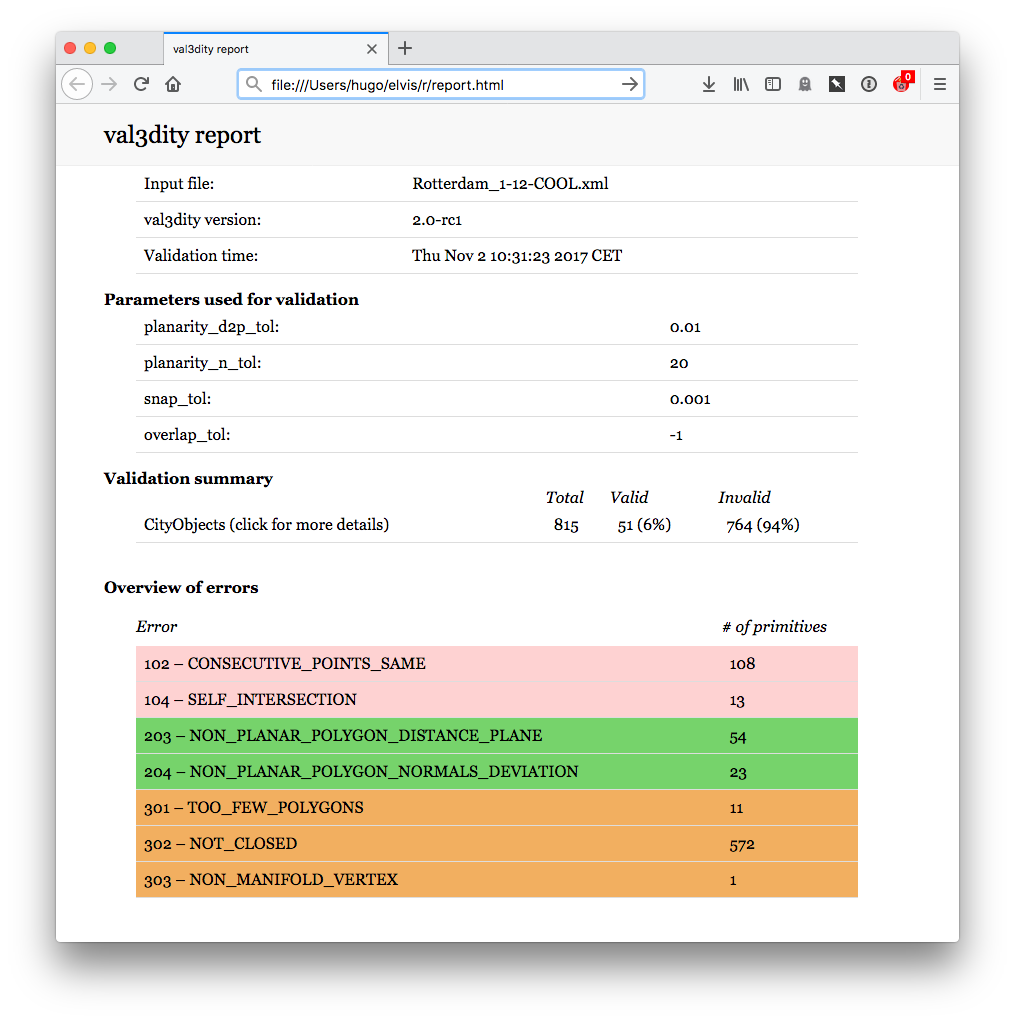
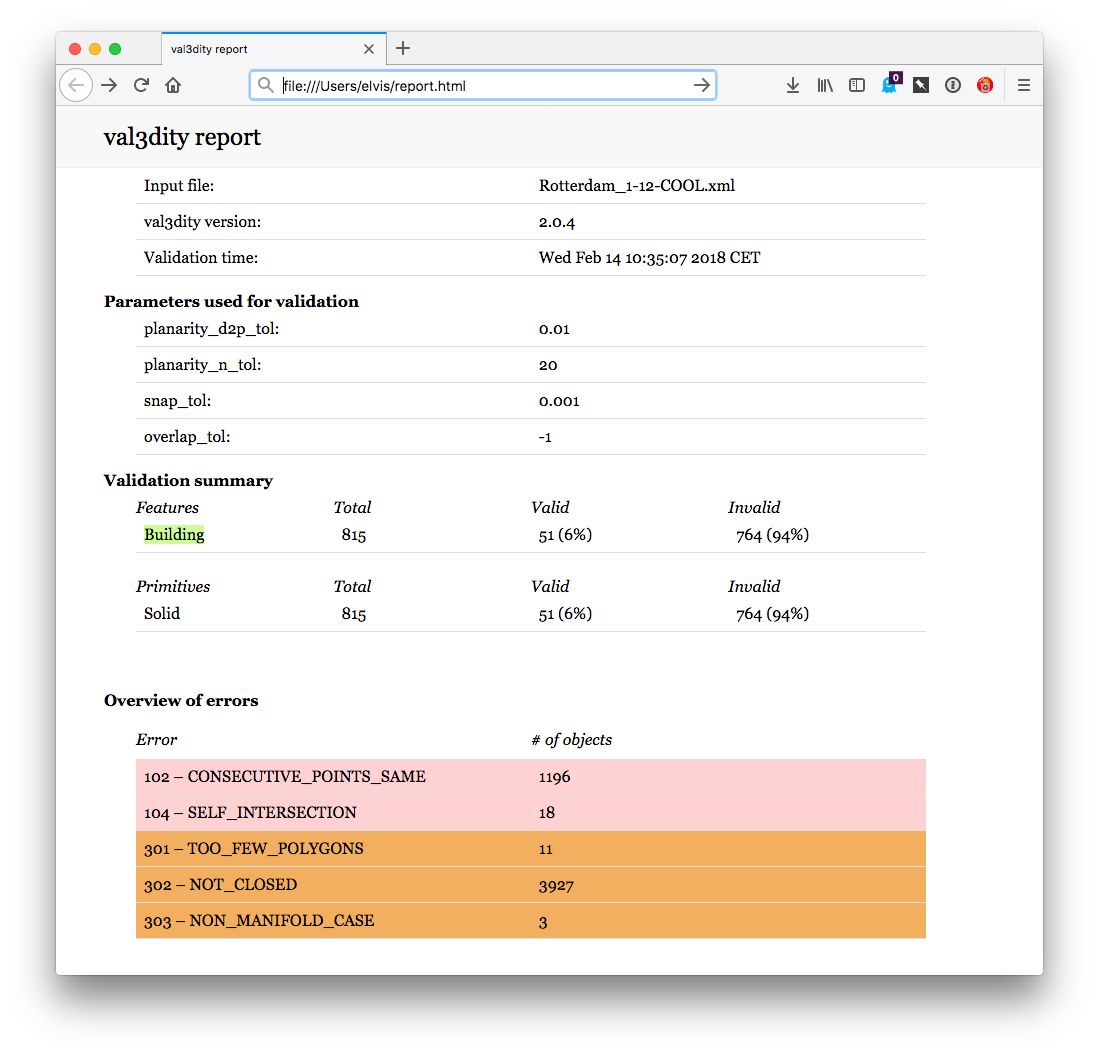
doc for v2.1 updated: mostly for the new report

diff --git a/docs/conf.py b/docs/conf.py
@@ -47,7 +47,7 @@ master_doc = 'index'
 
 # General information about the project.
 project = u'val3dity'
-copyright = u'2011-2017, Hugo Ledoux'
+copyright = u'2011-2018, Hugo Ledoux'
 author = u'Hugo Ledoux'
 
 # The version info for the project you're documenting, acts as replacement for
@@ -55,9 +55,9 @@ author = u'Hugo Ledoux'
 # built documents.
 #
 # The short X.Y version.
-version = u'2.0'
+version = u'2.1'
 # The full version, including alpha/beta/rc tags.
-release = u'2.0'
+release = u'2.1'
 
 # The language for content autogenerated by Sphinx. Refer to documentation
 # for a list of supported languages.

diff --git a/docs/faq.rst b/docs/faq.rst
@@ -22,11 +22,13 @@ You can read more about the `details <https://github.com/tudelft3d/val3dity/blob
 How to interpret the report?
 ----------------------------
 
-There are 2 options for a report: HTML and JSON report.
+There are 2 options for a report: HTML and JSON report (the HTML report is just a navigable view of the JSON report).
 
 :ref:`report`
 
-Outputs the validation report in a navigable HTML file that can be viewed in a web browser. There is a summary page with an overview, and also a page with all the details of each 3D primitive or City Objects. Some statistics (eg number of faces) for each is also given, as a convenience.
+Outputs the validation report in a navigable HTML file that can be viewed in a web browser. 
+There is a summary page with an overview, and also a page with all the details of each features present in the file. 
+Some statistics (eg number of faces, IDs, etc) for each feature and primitive is also given, as a convenience.
 
 .. image:: _static/report1.png
    :width: 49%
@@ -38,7 +40,12 @@ Outputs the validation report in a navigable HTML file that can be viewed in a w
 
 Outputs a single JSON file with the information shown in the HTML page.
 Use it to produce your own report or extract statistics.
-The structure is self-explanatory.
+
+The top level objects are called "features", and there are at this moment 2 kinds of features: CityObjects (for CityGML objects, like Building or Bridge) and GenericObject (when the features are not known, eg for an OBJ file).
+Each feature contains a list of 3D primitives.
+The errors are reported as children of either a 3D primitive (errors 1xx to 5xx)  or a feature (errors 6xx).
+The errors 9xx are reported in the ``"errors_dataset"``.
+All the features and primitives contain an entry ``"validity"`` state whether it is valid or not.
 
 
 
